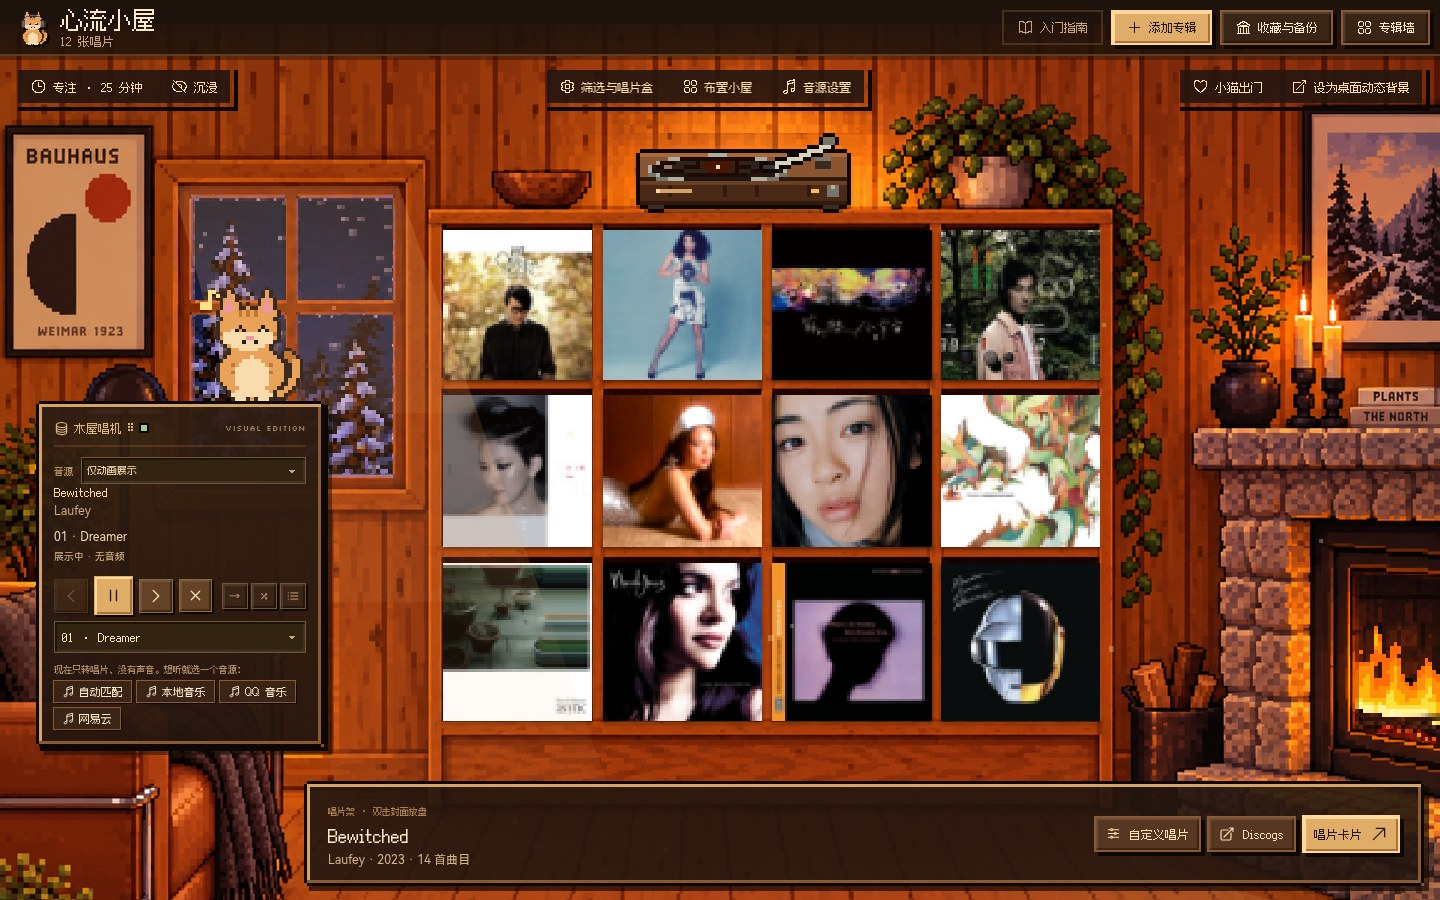
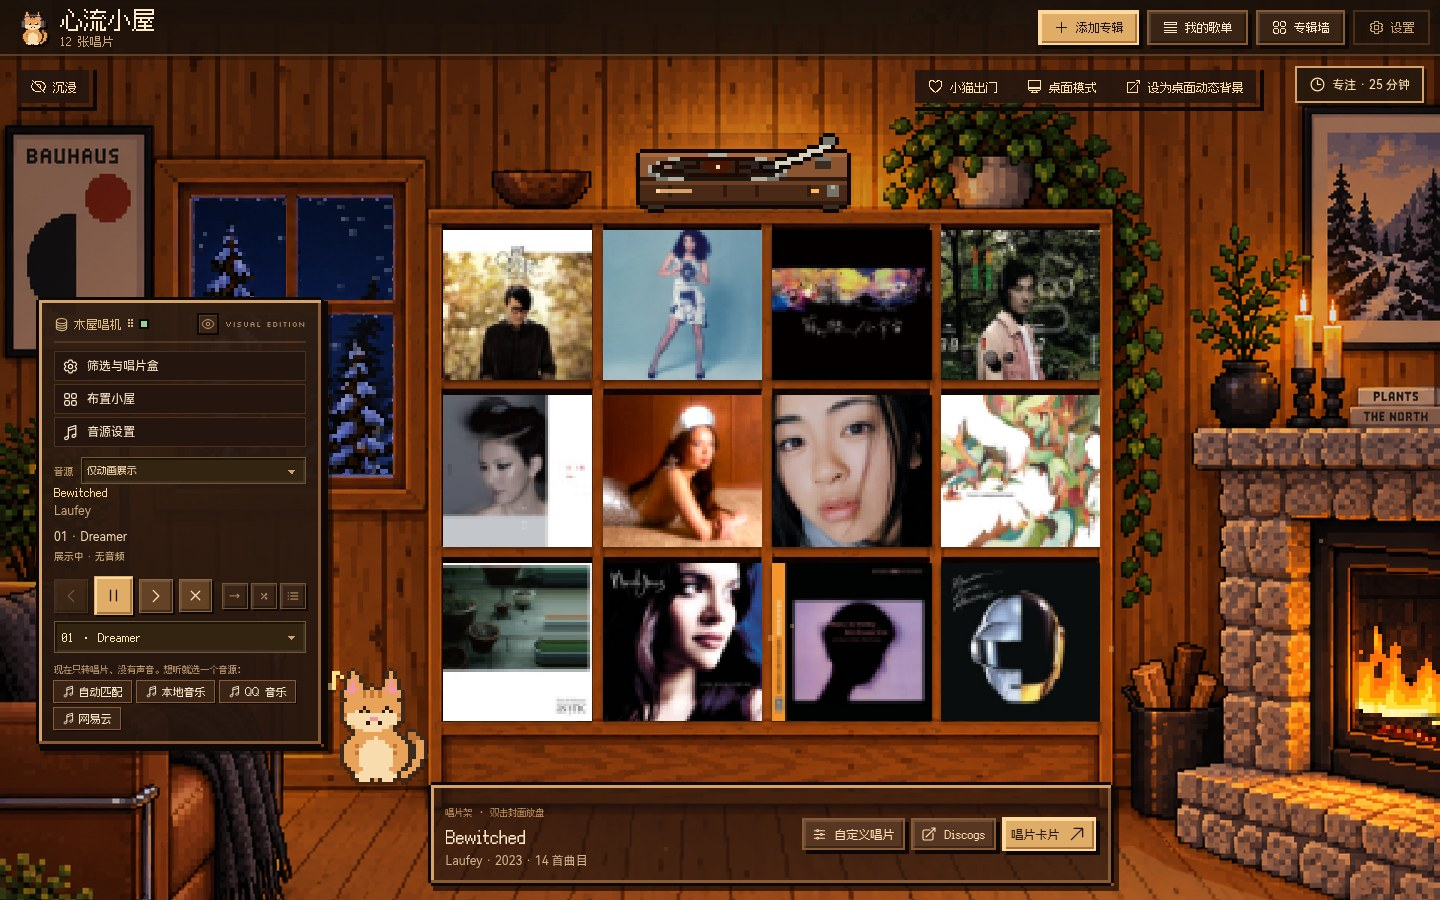
文档：入口盘点、信息架构、API 契约与新截图

diff --git a/docs/onboarding.md b/docs/onboarding.md
@@ -1,0 +1,73 @@
+# 新手引导与入口收拢 · Onboarding & settings hub
+
+代码：`src/onboarding/`（`onboarding-model.mjs` 状态、`onboarding-adapter.mjs` 适配层、`OnboardingWizard.jsx`、`SettingsHub.jsx`、`onboarding.css`）。
+测试：`src/onboarding/onboarding.test.mjs`（单元），`scripts/onboarding-checks.mjs`（浏览器，`npm run test:browser` 自动运行）。
+
+## 1. 入口盘点（v1.10.0，改动前）
+
+| 位置 | 入口 | 打开什么 |
+| --- | --- | --- |
+| 标题栏 | 入门指南 | 三步 `CabinWelcome`（场景/伙伴 → 音乐说明 → 专注） |
+| 标题栏 | 添加专辑 / 我的歌单 / 专辑墙 | 各自对话框 |
+| 标题栏 | 收藏与备份 | `BackupDialog` |
+| 标题栏（桌面版） | 软件设置（齿轮）、全屏、最小化、最大化、关闭 | 原生设置窗口（缩放、字体、减少动态）与窗口控制 |
+| 小屋工具条 | 沉浸 / 伙伴出门 / 桌面模式 / 设为桌面动态背景 | 页面状态与桌面命令（后两项由 #14 合并为「沉入桌面」） |
+| 唱机工具 | 筛选与唱片盒 / 布置小屋 / 音源设置 | 筛选面板、`RoomPersonalization`、`MusicSettings` |
+| 唱机 | 音源下拉、出错时「音源设置」按钮（`cabin-open-music-settings` 事件） | `MusicSettings` |
+| 专注坞 | 番茄钟 / 待办 / 统计 / 随手记 / 计时设置（含通知开关） | `FocusDock` |
+| 托盘菜单 | 打开小屋、开始/暂停专注、开关声音、伙伴出门/回家、停止动态背景、退出桌面模式、退出 | 主进程 |
+| 应用菜单 | 设置（⌘,）、重新载入、缩放、全屏 F11、桌面模式、打开数据文件夹、关于 | 主进程 |
+| 桌宠右键菜单 | 开关小屋声音 等 | `desktop/pet.cjs` |
+
+问题：设置分散在 6 处；音源、房间、桌面、备份互相看不到；首次引导只介绍不配置，不连接音源、不确认声音。
+
+## 2. 收拢后的信息架构
+
+右上角 **「设置」** 是唯一的设置入口，分六区：
+
+| 分区 | 内容 |
+| --- | --- |
+| 音源 | 唱机当前音源；本地 / QQ / 网易云 / Apple Music（Mac）/ 系统正在播放的状态与「在唱机上用」；**音质（标准 / 高品质 / 无损）预留位**；「音源与账户」详情页（登录、文件夹、Music Assistant） |
+| 房间与桌宠 | 场景与伙伴选择（与原「布置小屋」同一组件 `RoomPickers`） |
+| 专注工具 | 打开番茄钟 / 待办 / 随手记 / 统计；结束提醒（通知权限） |
+| 桌面 | **沉入桌面**（单一开关，`window.cabinDesktop`；`supported=false` 时禁用并直接显示 `reason`；Ctrl/⌘+Alt+D 退出）、伙伴出门、全屏、显示与字体（原生设置窗口） |
+| 数据与备份 | 收藏与备份、专辑墙、本地音乐文件夹 |
+| 关于 | 版本、项目主页、**重新引导**、快捷键 |
+
+旧入口保留但路由到设置：「布置小屋」→ 设置 › 房间与桌宠；「音源设置」与唱机出错按钮 → 设置 › 音源 的详情页「音源与账户」；「收藏与备份」从标题栏移入 设置 › 数据与备份；「入门指南」改为 设置 › 关于 › 重新引导。托盘新增「小屋设置…」，应用菜单新增「小屋设置… / 重新引导」，原 ⌘, 改名「显示与字体…」（页面命令 `open-settings`、`open-onboarding`，经 `album-companion-command`）。页面也可派发 `cabin-open-settings` `{section}` 打开指定分区。小屋工具条上的桌面模式/动态背景按钮由 #14 处理，本分支没有改动。
+
+## 3. 新手引导
+
+步骤：欢迎 → 音源（选择并连接/登录）→ 权限（通知；Mac 选 Apple Music/系统播放时请求「自动化控制音乐」；桌面版可选开机启动）→ 房间与伙伴 → 试听（按下「播放测试」才出声，再确认「听到了 / 没听到」，没听到给排查提示）→ 完成（摘要）。
+
+- 状态存在 `localStorage['flow-cabin-onboarding-v1']`：`status: new|active|skipped|done`、`step`、`source`、`quality`、`permissions`、`tested`。
+- 自动弹出：全新小屋（没有任何 `album-circle-*` 旧数据，也没看过 v1.9 入门指南）或上次中途关闭（`active`，从那一步继续）。跳过/完成后不再弹。旧用户不被打断。
+- 网页版：QQ / 网易云 / 系统播放器标为「需要心流小屋桌面版」并禁用；本地音乐改为「选择音乐文件」（打开 添加专辑）。Apple Music 只在 Mac 出现。
+- 像素样式用 `--px-*` token（均有回退值）；`prefers-reduced-motion` 与桌面「减少动态效果」都会关掉步骤动画。
+
+## 4. 需要队友实现的 API 契约
+
+适配层在 `onboarding-adapter.mjs`，所有方法可选；缺失时走回退，**不会假装已登录或已授权**。
+
+### 播放器（`window.cabinPlayer`，对应 docs/player.md）
+
+| 方法 | 期望 | 现在的回退 |
+| --- | --- | --- |
+| `listSources()` | `[{ id, label, available, reason?, provider? }]`，id 用 `local / qq / netease / appleMusic / system` | 内置列表（按桌面/网页、Mac 过滤） |
+| `connectSource(id)` | `Promise<{ ok, pending?, error? }>`；`pending` 时完成后派发 `album-music-account` 或 `album-local-music` | 本地：`local-music-folder` 命令；QQ/网易云：`music-login` 命令；系统/Apple Music：直接 ok（仅桌面版） |
+| `getSourceStatus(id)` | `{ connected, detail }`（detail 是给用户看的中文） | 读 `/desktop-music/config`、`/desktop-music/local/summary` |
+| `requestPermission('appleMusic')` | `'granted' / 'denied' / 'unsupported'`，触发 macOS 自动化授权 | 返回 `unsupported`，提示「第一次用到时由系统询问」 |
+| `requestPermission('autostart')` | 同上（可放在桌面侧） | `unsupported` |
+| `testPlayback()` | 用所选音源放几秒，`{ ok, error? }` | WebAudio 三音提示音，只能确认输出设备 |
+| `listAudioQualities()` / `getAudioQuality()` / `setAudioQuality(id)` | 音质三档，播放失败自动降档 | 设置里显示禁用的「自动」占位，引导里不显示 |
+
+通知权限由页面自己用 `Notification.requestPermission()` 处理。播放控制可用 `cabin:player-command` `{ action: toggle|play|pause|next|previous }`，引导目前不需要。
+
+### 桌面（`window.cabinDesktop`，对应 #14 的 docs/desktop.md）
+
+`enterDesktopMode()`、`exitDesktopMode()`、`getDesktopModeStatus() → { active, busy, supported, via, reason }`、`onDesktopModeChange(cb)`（无则监听 `cabin:desktop-mode`）。`busy` 时开关禁用；`supported=false` 时禁用并直接显示 `reason`。缺失时回退到当前页面的桌面模式切换。
+
+## 5. 待办（TODO）
+
+- 播放器：上表各方法上线后，删掉 `onboarding-adapter.mjs` 里的 `TODO(player)` 回退。
+- 桌面：#14 合并后，本分支只读 `window.cabinDesktop`，回退分支可删除；开机启动需要一个 `requestPermission('autostart')` 或独立 API。

diff --git a/README.md b/README.md
@@ -104,7 +104,7 @@
 <td valign="top">
 
 ### 🔒 数据留在本机
-收藏、笔记、专注记录、待办和随手记保存在本机，可在「收藏与备份」中导出 / 导入。平台凭据通过 Electron safeStorage 加密保存，不能安全加密时拒绝保存。
+收藏、笔记、专注记录、待办和随手记保存在本机，可在「设置 › 数据与备份」中导出 / 导入。平台凭据通过 Electron safeStorage 加密保存，不能安全加密时拒绝保存。
 
 </td>
 </tr>
@@ -145,9 +145,9 @@
 </tr>
 </table>
 
-| 专注中的小屋 | 布置小屋 | 第一次来 |
+| 专注中的小屋 | 设置 › 房间与桌宠 | 新手引导 |
 | :---: | :---: | :---: |
-| <img src="docs/assets/screenshots/focus.jpg" alt="专注计时运行中，小猫冒泡提示剩余时间"> | <img src="docs/assets/screenshots/personalization.jpg" alt="六个场景与五位像素伙伴的选择器"> | <img src="docs/assets/screenshots/welcome.jpg" alt="可跳过的三步入门指南"> |
+| <img src="docs/assets/screenshots/focus.jpg" alt="专注计时运行中，小猫冒泡提示剩余时间"> | <img src="docs/assets/screenshots/personalization.jpg" alt="六个场景与五位像素伙伴的选择器"> | <img src="docs/assets/screenshots/onboarding.png" alt="新手引导：选择音源"> |
 
 <sub>截图展示当前开发分支的界面，可能尚未打包进最新 Release。重现方法见 <a href="#-截图是怎么来的">截图是怎么来的</a>。</sub>
 
@@ -172,6 +172,12 @@
 | Music Assistant | 连接已有服务器与播放器 | 需要自己的服务器；未完成真实音箱验收 |
 
 搜索到专辑不等于获得播放权限。各平台验收范围见[使用边界](docs/limitations.md#音乐与平台)，连接方法见[如何连接音源](docs/getting-started.md#连接音乐)。
+
+## 🧭 第一次使用
+
+第一次打开会出现 **新手引导**：选音源并登录 / 添加文件夹 → 打开需要的权限（通知；Mac 上的「音乐」自动化；可选开机启动）→ 选房间和伙伴 → 播放测试音确认有声音。每一步都能跳过；中途关掉，下次从那一步继续。
+
+所有设置都在右上角 **「设置」**：音源 · 房间与桌宠 · 专注工具 · 桌面（沉入桌面，<kbd>Ctrl/⌘</kbd>+<kbd>Alt</kbd>+<kbd>D</kbd> 退出）· 数据与备份 · 关于（**重新引导**）。原来的「布置小屋」「音源设置」按钮仍可用，会直接打开对应分区。说明见 [docs/onboarding.md](docs/onboarding.md)。
 
 ## 🚀 快速开始
 
@@ -290,6 +296,7 @@ npm run check && npm run test:browser
 - **Companions** — five pixel pals that breathe, react to pokes and bop to the music, a desktop pet and a live wallpaper. Reduced motion is respected.
 - **Look & feel** — one pixel style throughout: Fusion Pixel / Silkscreen fonts, notched pixel frames, `steps()` motion, dust motes and a time-of-day window light.
 - **Local-first** — collection, notes and focus data stay on your machine, with export/import backups.
+- **First run** — a skippable, resumable onboarding wizard sets up a music source, permissions, room and companion, and plays a test sound. Everything else lives in one **Settings** hub (Sources · Room & companion · Focus · Desktop · Data & backup · About → re-run onboarding). See [docs/onboarding.md](docs/onboarding.md).
 
 ```bash
 npm ci && npm --prefix desktop ci
